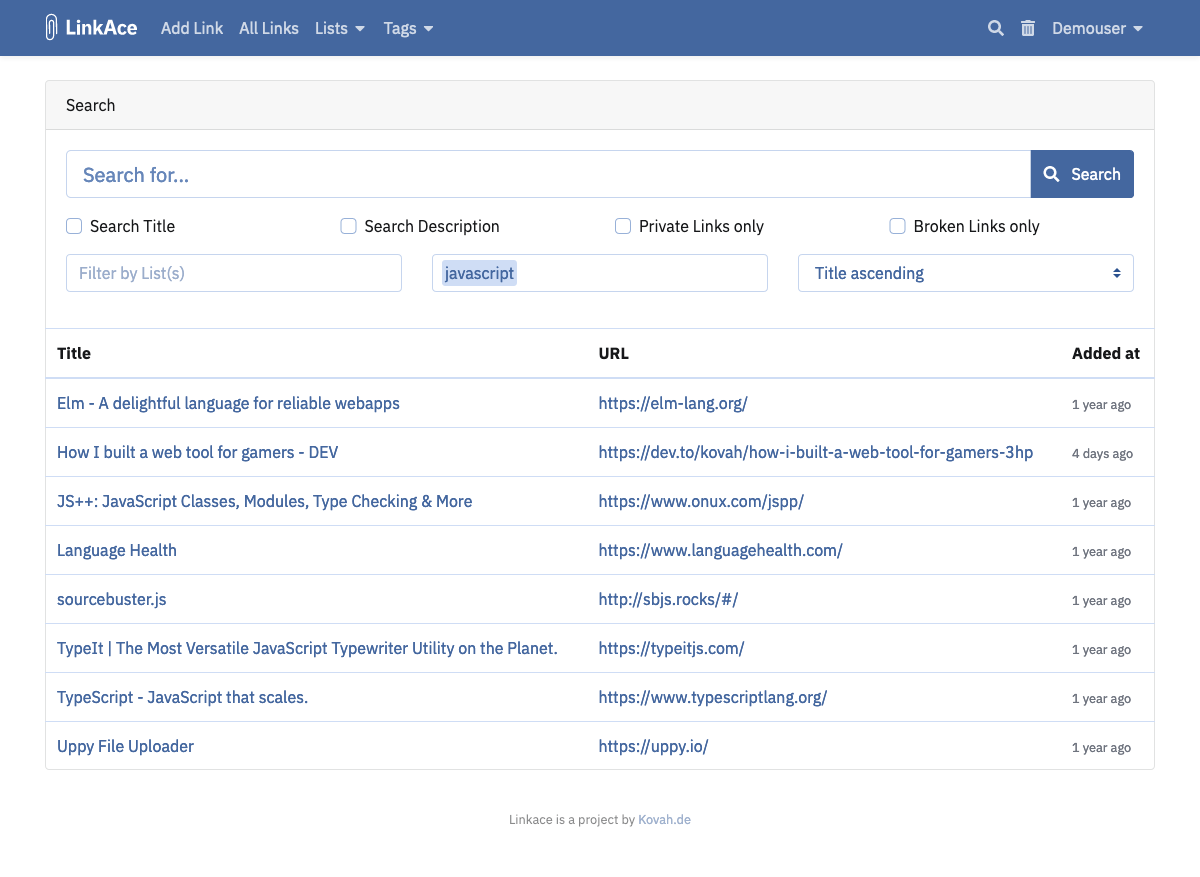
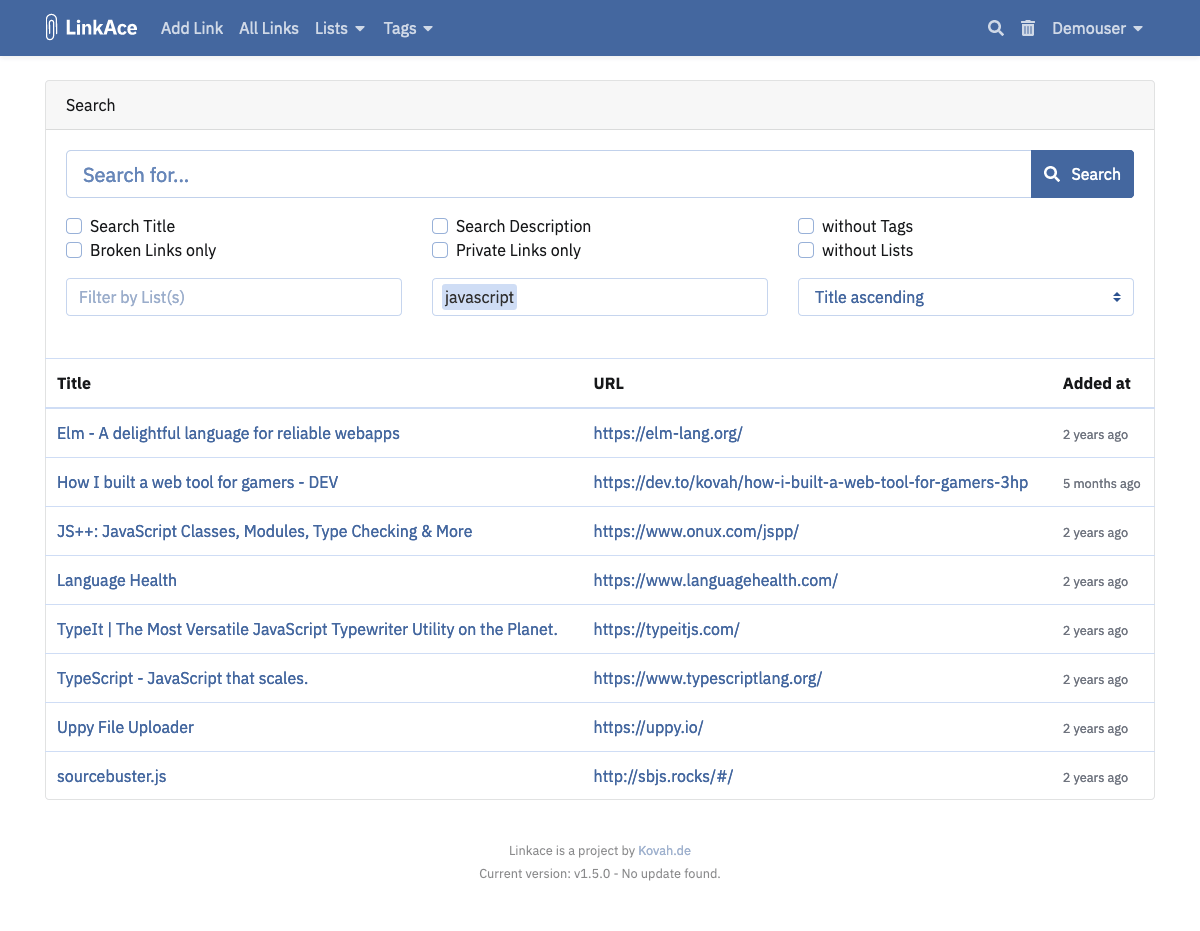
Update docs for version 1.5.0

diff --git a/content/docs/v1/application/search.md b/content/docs/v1/application/search.md
@@ -18,13 +18,15 @@ The following table gives you an overview over all search options available.
 
 | Option | Description |
 |:------|:------------|
-| Search for | The Search for field is the main input, letting your specify the search term. By default, LinkAce will only search within the URL. |
-| Search Title | If checked, LinkAce will also search for the term in the title field. |
-| Search Description | If checked, LinkAce will also search for the term in the description field. |
-| Private Links only | If checked, LinkAce will only display links which are marked as private. |
-| Broken Links only | If checked, LinkAce will only display links which are marked as broken by the automated link checks. |
-| Category filter | If you select a category here, LinkAce will only display links which are associated with the category. |
-| Tag filter | If you select one or more tags here, LinkAce will only display links which are associated with one of the tags. |
+| Search for | The Search for field is the main input, letting your specify the search term. |
+| Search Title | If checked, LinkAce searches for the term in the title field. |
+| Search Description | If checked, LinkAce searches for the term in the description field. |
+| Private Links only | If checked, only display links which are marked as private. |
+| Broken Links only | If checked, only display links which are marked as broken by the automated link checks. |
+| without Lists | If checked, only links without any associated lists will be displayed. |
+| without Tags | If checked, only links without any associated tags will be displayed. |
+| List filter | If you select a list here, only links which are associated with the selected list will be displayed. |
+| Tag filter | If you select a tag here, only links which are associated with the selected tag will be displayed. |
 | Sorting option | This option allows you to sort the results by title, URL or the creation date, ascending or descending respectively. |
 
 {{< / table >}}

diff --git a/content/docs/v1/application/rss-feeds.md b/content/docs/v1/application/rss-feeds.md
@@ -1,0 +1,32 @@
+---
+title: RSS Feeds
+weight: 70
+---
+
+LinkAce provides RSS feeds for public and private links. Please notice that 
+
+## Feed Overview
+
+### Public feeds
+
+Public feeds are only available if you enabled the **Guest Mode**. The feeds can be accessed via the feed button on the corresponding overview page inside the guest mode.
+
+  - Links: `https://linkace-example.com/guest/links/feed`
+  - Links for a List: `https://linkace-example.com/guest/lists/[list-id]/feed`  
+    `[list-id]` must be replaced with the List ID
+  - Links for a Tag: `https://linkace-example.com/guest/tags/[tag-id]/feed`  
+    `[tag-id]` must be replaced with the Tag ID
+
+### Private feeds
+  - Links: `https://linkace-example.com/links/feed`
+  - Links for a List: `https://linkace-example.com/lists/[list-id]/feed`  
+    `[list-id]` must be replaced with the List ID
+  - Links for a Tag: `https://linkace-example.com/tags/[tag-id]/feed`  
+    `[tag-id]` must be replaced with the Tag ID
+
+
+## Accessing private data
+
+You can also access your private links, lists and tags. To be able to access private data, you have to append the [API token]({{< relref path="docs/v1/configuration/user-settings.md" >}}) to the corresponding URL like this:
+
+`https://linkace-example.com/links/feed?api_token=knCz[...]vzhy`

diff --git a/content/docs/v1/general/changelog.md b/content/docs/v1/general/changelog.md
@@ -2,6 +2,18 @@
 title: LinkAce Changelog
 ---
 
+### 1.5.0
+
+_Released at 2021-04-09_
+
+- LinkAce now provides RSS feeds for public links. Private feeds can be accessed by using the API token. [Read more]({{< relref path="docs/v1/configuration/user-settings.md" >}}). (#197)
+- Links can manually be set to a "working" status. Helpful if LinkAce has issues correctly checking the status of the link. (#234)
+- Users can now search for links which have no tags or lists assigned. (#257)
+- The simple Docker image was fixed. (#258)
+- Issues with incorrect search results while searching in title and description were fixed.
+- Dependencies were updated.
+
+
 ### 1.4.1
 
 _Released at 2021-03-27_

diff --git a/content/docs/v1/configuration/system-settings.md b/content/docs/v1/configuration/system-settings.md
@@ -33,7 +33,7 @@ If you are unsure about setting up a cron, either use a web service like [cron-j
 Your cron must run **every minute** and must open the URL provided in the system settings. A basic unix cron entry may look like this:
 
 ```
-*   *   *   *   *   wget -qO- https://linkace.example.com/cron/WPvv4mxM6nr22Aq4rVf1qEKutsXLTgyw > /dev/null
+*   *   *   *   *   wget -qO- https://linkace-example.com/cron/WPvv4mxM6nr22Aq4rVf1qEKutsXLTgyw > /dev/null
 ```
 
 ### Re-generate the cron token

diff --git a/content/docs/v1/application/trash.md b/content/docs/v1/application/trash.md
@@ -1,6 +1,6 @@
 ---
 title: Trash
-weight: 70
+weight: 100
 ---
 
 There should never be the situation where data is lost by mistake. That's why everything in LinkAce will not be deleted permanently when deleting it from the interface. Instead, the entry (be it a link, tag or category) is moved to the trash. You can access the trash trough the menu bar by clicking on the trashcan.
